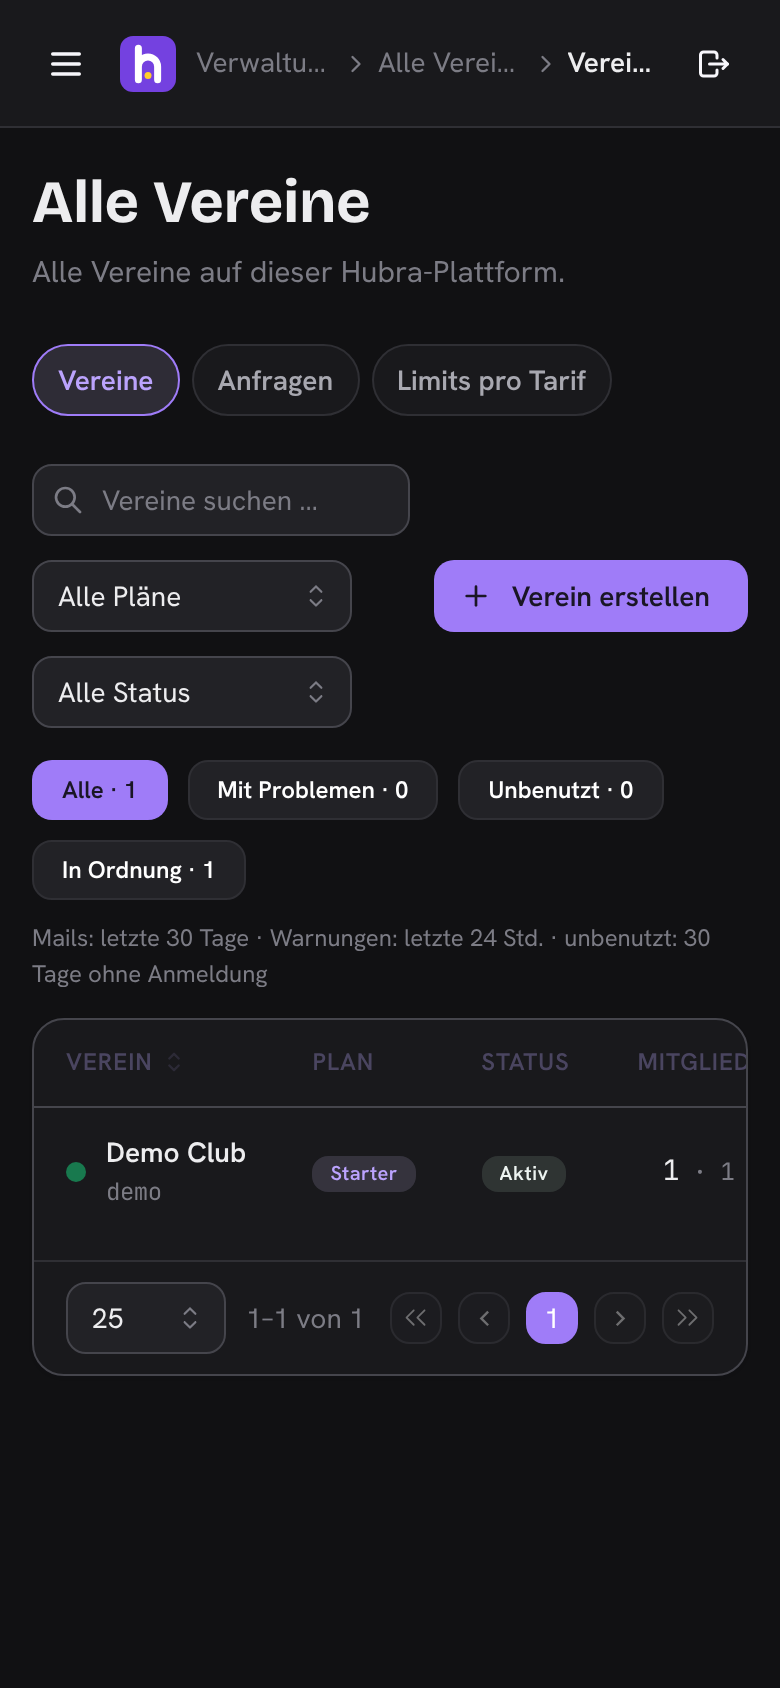
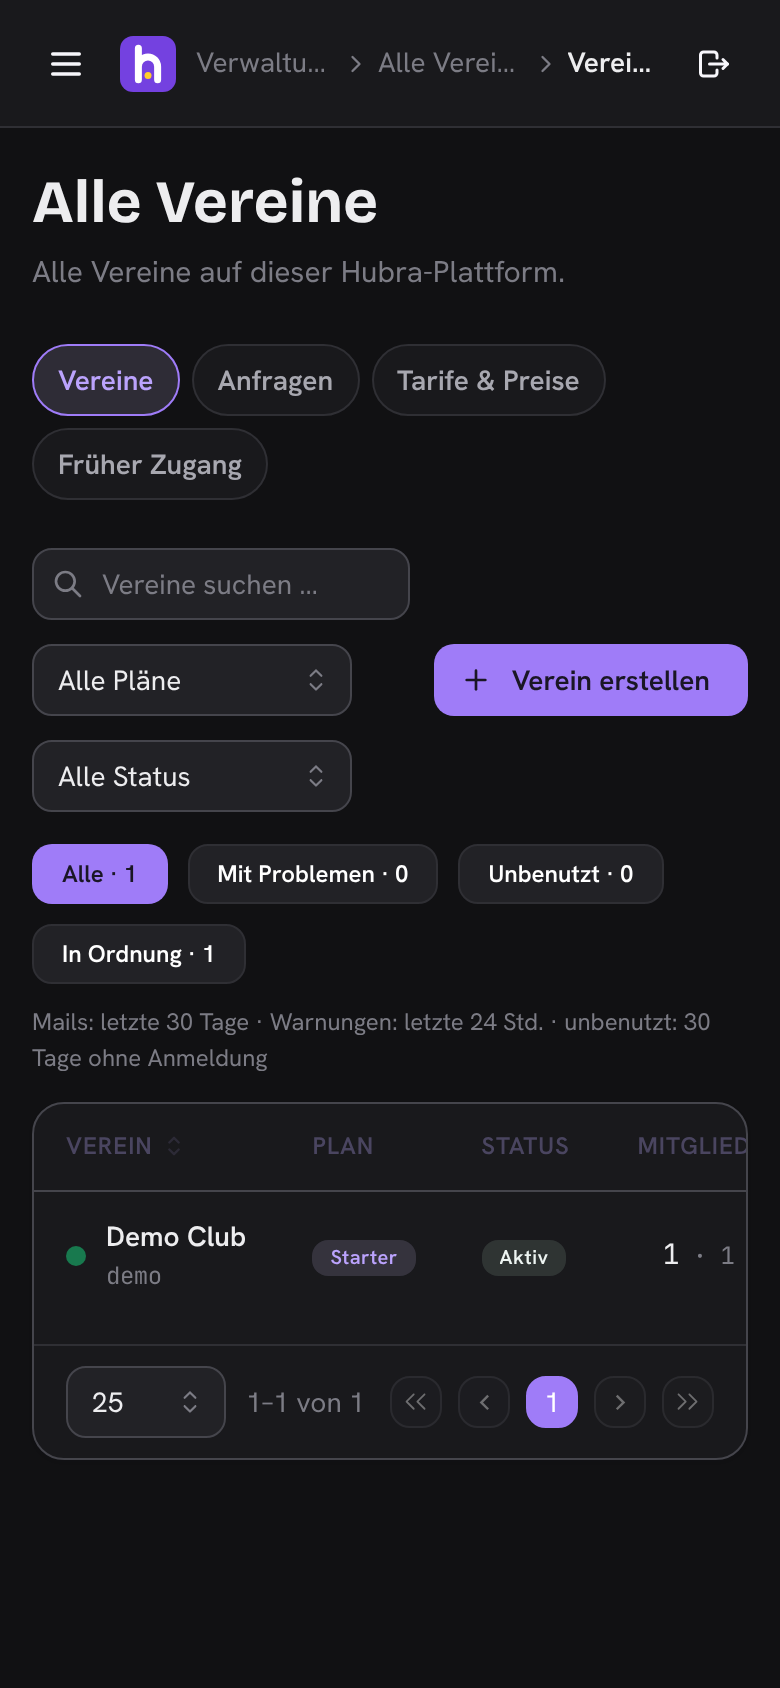
fix(ui): bring code merged today in line with the design spec
Info badges and warnings from the plans, billing, data-request and
marketplace screens use acc / orange, cards there take the theme radius,
and manage asks before removing a plugin repository or trusted key again
(the marketplace was reworked on main). Spec: fonts were self-hosted in
#163.

Claude-Session: https://claude.ai/code/session_01Mn3pymjwwBi5PKSVVUCChF

diff --git a/app/admin-frontend/src/screens/MarketplaceTab.tsx b/app/admin-frontend/src/screens/MarketplaceTab.tsx
@@ -72,6 +72,8 @@ import {
   type RepositoryPreview,
 } from '@/api/plugins'
 import { tr } from '@/lang'
+import { EmptyState } from '@/components/ui'
+import { useConfirm } from '@/components/useConfirm'
 import { PLUGIN_DE } from '@/moduleLabels'
 
 const TRUST: Record<string, { color: string; label: () => string }> = {
@@ -137,7 +139,7 @@ function PluginIcon({ p }: { p: MarketplacePlugin }) {
             ? IconMessages
             : IconPuzzle
   return (
-    <ThemeIcon size={52} radius="md" variant="light" color={p.installed ? 'violet' : 'gray'} aria-hidden>
+    <ThemeIcon size={52} radius="md" variant="light" color={p.installed ? 'acc' : 'gray'} aria-hidden>
       <Icon size={28} stroke={1.6} />
     </ThemeIcon>
   )
@@ -276,7 +278,7 @@ function PluginsView() {
         </Alert>
       ))}
 
-      <Paper withBorder radius="md" p="md">
+      <Paper withBorder p="md">
         <Stack gap="sm">
           <Group justify="space-between" wrap="wrap" gap="sm">
             <Group gap="lg">
@@ -358,10 +360,8 @@ function PluginsView() {
           {errorText(error)}
         </Alert>
       ) : plugins.length === 0 ? (
-        <Paper withBorder radius="md" p="xl">
-          <Text size="sm" c="dimmed" ta="center">
-            {tr('Keine passenden Plugins.', 'No plugins match.')}
-          </Text>
+        <Paper withBorder>
+          <EmptyState title={tr('Keine passenden Plugins.', 'No plugins match.')} />
         </Paper>
       ) : filter === 'all' ? (
         <>
@@ -553,7 +553,7 @@ function PluginCard({
               </Button>
             )}
             {p.update && (
-              <Button size="xs" color="gold" c="#1a1625" loading={busy} onClick={onInstall} leftSection={<IconArrowUp size={14} />}>
+              <Button size="xs" color="gold" loading={busy} onClick={onInstall} leftSection={<IconArrowUp size={14} />}>
                 {tr(`Auf ${p.repoVersion}`, `To ${p.repoVersion}`)}
               </Button>
             )}
@@ -936,8 +936,10 @@ function RepositoriesView() {
     }
   }
 
+  const [confirm, confirmDialog] = useConfirm()
   return (
     <Stack gap="md">
+      {confirmDialog}
       <Paper withBorder p="lg">
         <Text fw={600} size="sm" mb={4}>
           {tr('Quelle hinzufügen', 'Add a repository')}
@@ -1057,9 +1059,15 @@ function RepositoriesView() {
                       variant="subtle"
                       color="red"
                       onClick={() =>
-                        act(async () => {
-                          await deleteRepository(r.id)
-                          refresh()
+                        confirm({
+                          title: tr(`Quelle «${r.name}» entfernen?`, `Remove the repository "${r.name}"?`),
+                          body: tr('Installierte Plugins bleiben, bekommen aber keine Updates mehr aus dieser Quelle.', 'Installed plugins stay but get no more updates from it.'),
+                          confirmLabel: tr('Entfernen', 'Remove'),
+                          run: () =>
+                            act(async () => {
+                              await deleteRepository(r.id)
+                              refresh()
+                            }),
                         })
                       }
                     >
@@ -1098,8 +1106,10 @@ function KeysView() {
     }
   }
 
+  const [confirm, confirmDialog] = useConfirm()
   return (
     <Stack gap="md">
+      {confirmDialog}
       <Paper withBorder p="lg">
         <Text fw={600} size="sm" mb={4}>
           {tr('Einem Autor vertrauen', 'Trust an author')}
@@ -1175,7 +1185,14 @@ function KeysView() {
                       size="xs"
                       variant="subtle"
                       color="red"
-                      onClick={() => act(() => deleteTrustedKey(k.id!))}
+                      onClick={() =>
+                        confirm({
+                          title: tr(`Schlüssel «${k.name}» entfernen?`, `Remove the key "${k.name}"?`),
+                          body: tr('Plugins und Listen, die nur mit diesem Schlüssel signiert sind, gelten dann nicht mehr als vertrauenswürdig.', 'Plugins and indexes signed only with this key are no longer trusted.'),
+                          confirmLabel: tr('Entfernen', 'Remove'),
+                          run: () => act(() => deleteTrustedKey(k.id!)),
+                        })
+                      }
                     >
                       {tr('Entfernen', 'Remove')}
                     </Button>

diff --git a/app/frontend/src/screens/private/settings/BackupKeyTab.tsx b/app/frontend/src/screens/private/settings/BackupKeyTab.tsx
@@ -254,7 +254,7 @@ function KeyWizard({ onDone, onCancel, replacing }: { onDone: () => void; onCanc
   return (
     <Paper withBorder p="lg">
       <Group gap="xs" mb="md" wrap="nowrap">
-        <IconKey size={22} style={{ flexShrink: 0 }} />
+        <IconKey size={24} style={{ flexShrink: 0 }} />
         <Title order={3}>
           {replacing
             ? t('backupKey.wizard.replaceTitle', 'Neuen Backup-Schlüssel einrichten')
@@ -276,7 +276,7 @@ function KeyWizard({ onDone, onCancel, replacing }: { onDone: () => void; onCanc
           <Stack gap="md" mt="md">
             <WhatItIs />
             {replacing && (
-              <Alert color="yellow" icon={<IconAlertTriangle size={18} />}>
+              <Alert color="orange" icon={<IconAlertTriangle size={18} />}>
                 {t(
                   'backupKey.wizard.replaceHint',
                   'Backups, die schon gemacht wurden, öffnen weiterhin mit dem bisherigen Schlüssel. Bewahrt ihn deshalb auf, bis diese Backups abgelaufen sind.',
@@ -695,7 +695,7 @@ function KeyStatus({
       <Paper withBorder p="lg">
         <Group justify="space-between" mb="md" wrap="wrap" gap="xs">
           <Group gap="xs">
-            <IconShieldCheck size={22} color="var(--mantine-color-green-6)" />
+            <IconShieldCheck size={24} color="var(--mantine-color-green-6)" />
             <Title order={3}>{t('backupKey.status.title', 'Eigener Backup-Schlüssel')}</Title>
           </Group>
           <Badge color="green" variant="light">
@@ -720,7 +720,7 @@ function KeyStatus({
             </Text>
           )}
           {!state.backups_use_key ? (
-            <Alert color="yellow" icon={<IconAlertTriangle size={18} />}>
+            <Alert color="orange" icon={<IconAlertTriangle size={18} />}>
               {t(
                 'backupKey.status.notYet',
                 'Dieser Server verschlüsselt Backups noch nicht mit öffentlichen Schlüsseln. Euer Schlüssel ist gespeichert und gilt, sobald der Betreiber das umstellt.',

diff --git a/app/admin-frontend/src/screens/platform/Plans.tsx b/app/admin-frontend/src/screens/platform/Plans.tsx
@@ -102,7 +102,7 @@ export function PlatformPlans() {
 
   return (
     <Stack gap={20} maw={960}>
-      <Paper withBorder shadow="sm" radius="lg" p="lg">
+      <Paper withBorder p="lg">
         <Group justify="space-between" mb={4}>
           <Title order={3}>{tr('Tarife', 'Plans')}</Title>
           <Button size="xs" leftSection={<IconPlus size={16} />} onClick={() => setEditing('new')}>
@@ -120,7 +120,6 @@ export function PlatformPlans() {
             <Paper
               key={p.key}
               withBorder
-              radius="md"
               p="md"
               style={p.hidden ? { opacity: 0.6 } : undefined}
             >
@@ -171,7 +170,7 @@ export function PlatformPlans() {
                   </Badge>
                 )}
                 {p.highlighted && (
-                  <Badge size="sm" variant="light" color="violet">
+                  <Badge size="sm" variant="light" color="acc">
                     {tr('Hervorgehoben', 'Highlighted')}
                   </Badge>
                 )}
@@ -220,7 +219,7 @@ export function PlatformPlans() {
         </SimpleGrid>
       </Paper>
 
-      <Paper withBorder shadow="sm" radius="lg" p="lg">
+      <Paper withBorder p="lg">
         <Title order={3} mb={4}>
           {tr('Zusatzmodule', 'Add-ons')}
         </Title>
@@ -290,7 +289,7 @@ export function PlatformPlans() {
         </Table.ScrollContainer>
       </Paper>
 
-      <Paper withBorder shadow="sm" radius="lg" p="lg">
+      <Paper withBorder p="lg">
         <Title order={3} mb={4}>
           {tr('Öffentliche API', 'Public API')}
         </Title>

diff --git a/app/admin-frontend/src/screens/DataRequests.tsx b/app/admin-frontend/src/screens/DataRequests.tsx
@@ -64,7 +64,7 @@ function DeadlineBadge({ r }: { r: DataRequest }) {
     )
   const days = r.days_left ?? 0
   return (
-    <Badge variant="light" color={r.overdue ? 'red' : r.due_soon ? 'orange' : 'blue'}>
+    <Badge variant="light" color={r.overdue ? 'red' : r.due_soon ? 'orange' : 'acc'}>
       {r.overdue
         ? tr(`${-days} Tage überfällig`, `${-days} days overdue`)
         : days === 0
@@ -200,11 +200,11 @@ function RequestCard({
   }
 
   return (
-    <Paper withBorder p="md" radius="md">
+    <Paper withBorder p="md">
       <Group justify="space-between" align="flex-start" gap={8} mb={6}>
         <Stack gap={2}>
           <Group gap={8}>
-            <Badge variant="outline" color={r.kind === 'deletion' ? 'red' : 'violet'}>
+            <Badge variant="outline" color={r.kind === 'deletion' ? 'red' : 'acc'}>
               {KIND[r.kind]()}
             </Badge>
             <DeadlineBadge r={r} />

diff --git a/app/admin-frontend/src/screens/TenantBilling.tsx b/app/admin-frontend/src/screens/TenantBilling.tsx
@@ -38,7 +38,7 @@ import {
 
 const STATUS: Record<BillingStatus, { de: string; en: string; color: string }> = {
   none: { de: 'Nicht verrechnet', en: 'Not billed', color: 'gray' },
-  trialing: { de: 'Testphase', en: 'Trial', color: 'blue' },
+  trialing: { de: 'Testphase', en: 'Trial', color: 'acc' },
   active: { de: 'Aktiv', en: 'Active', color: 'green' },
   past_due: { de: 'Zahlung überfällig', en: 'Past due', color: 'orange' },
   unpaid: { de: 'Unbezahlt', en: 'Unpaid', color: 'red' },
@@ -381,7 +381,7 @@ function BillingModal({
           />
         </SimpleGrid>
 
-        <Paper withBorder p="md" radius="md">
+        <Paper withBorder p="md">
           <Switch
             label={tr('Gesponsert', 'Sponsored')}
             description={tr(

diff --git a/app/admin-frontend/src/screens/platform/EarlyAccess.tsx b/app/admin-frontend/src/screens/platform/EarlyAccess.tsx
@@ -25,7 +25,7 @@ function FlagRow({ flag, total, onSaved }: { flag: FeatureFlag; total: number; o
   }
 
   return (
-    <Paper withBorder radius="lg" p="md">
+    <Paper withBorder p="md">
       <Group justify="space-between" align="flex-start" gap="md" wrap="wrap">
         <Stack gap={2} style={{ flex: '1 1 280px' }}>
           <Group gap={8}>
@@ -84,7 +84,7 @@ export function EarlyAccess() {
         )}
       </Text>
 
-      <Paper withBorder radius="lg" p="md">
+      <Paper withBorder p="md">
         <Group justify="space-between" mb={8}>
           <Title order={4}>{tr('Testgruppe', 'Early group')}</Title>
           <Badge variant="light">{data?.early_access.length ?? 0}</Badge>

diff --git a/app/frontend/src/screens/private/settings/ModulesTab.tsx b/app/frontend/src/screens/private/settings/ModulesTab.tsx
@@ -139,7 +139,7 @@ export function ModulesTab() {
           )}
         </Text>
         {plugins.length === 0 ? (
-          <Paper withBorder radius="md" p="lg">
+          <Paper withBorder p="lg">
             <Group gap="md" wrap="nowrap">
               <ThemeIcon size={44} radius="md" variant="light" color="gray">
                 <IconPuzzle size={24} />
@@ -235,7 +235,6 @@ function ModuleCard({
   return (
     <Paper
       withBorder
-      radius="md"
       p="lg"
       data-module={m.code}
       style={{

diff --git a/app/admin-frontend/vite.config.ts b/app/admin-frontend/vite.config.ts
@@ -15,7 +15,7 @@ export default defineConfig({
     },
   },
   server: {
-    // The shared fonts in packages/ui/fonts are served from outside the app.
+    // packages/ui (shared CSS and fonts) lives outside the app root.
     fs: { allow: [searchForWorkspaceRoot(process.cwd()), resolve(__dirname, '../../packages')] },
     host: '0.0.0.0',
     port: 5174,

diff --git a/app/frontend/vite.config.ts b/app/frontend/vite.config.ts
@@ -16,7 +16,7 @@ export default defineConfig({
     },
   },
   server: {
-    // The shared fonts in packages/ui/fonts are served from outside the app.
+    // packages/ui (shared CSS and fonts) lives outside the app root.
     fs: { allow: [searchForWorkspaceRoot(process.cwd()), resolve(__dirname, '../../packages')] },
     host: '0.0.0.0',
     port: 5173,

diff --git a/app/sso-frontend/vite.config.ts b/app/sso-frontend/vite.config.ts
@@ -15,7 +15,7 @@ export default defineConfig({
     },
   },
   server: {
-    // The shared fonts in packages/ui/fonts are served from outside the app.
+    // packages/ui (shared CSS and fonts) lives outside the app root.
     fs: { allow: [searchForWorkspaceRoot(process.cwd()), resolve(__dirname, '../../packages')] },
     host: '0.0.0.0',
     port: 5175,

diff --git a/docs/design-spec.md b/docs/design-spec.md
@@ -17,7 +17,7 @@ Where things live:
 | CSS tokens (`--hb-*`), page base, brand marks, chips, tabs | `packages/ui/src/ui.css` |
 | Shared page blocks: `PageHead`, `StatTile`, `StatGrid`, `Tabs`, `Pagination` | `packages/ui/src/layout.tsx` |
 | Dialogs, side panels, cards, empty / error / loading states | `packages/ui/src/feedback.tsx` (each app wraps them with its texts) |
-| Fonts (self-hosted woff2, SIL OFL) | `packages/ui/fonts/` |
+| Fonts (self-hosted woff2, SIL OFL) | `packages/ui/src/fonts/` |
 | Text colour on any fill (WCAG) | `packages/ui/src/contrast.ts` (`textOn`, `readableOn`) |
 | Light / dark / auto | `packages/ui/src/colorScheme.ts`, `ThemeSwitch.tsx`, `theme.js` |
 | Logo files and brand rules | `brand/README.md` |
@@ -394,7 +394,7 @@ this page:
 - Body 17 px / 1.6 (marketing size), headings Bricolage 800 with tight
   tracking; buttons radius 10 px, cards 16 px.
 - Fonts are self-hosted (no Google request), like the apps
-  (`packages/ui/fonts`).
+  (`packages/ui/src/fonts`).
 
 ---
 
@@ -435,7 +435,7 @@ with its fix.
 | 13 | Shared components only in the club app | `DataTable`, `EmptyState`, `ErrorBanner`, `Avatar`, `Card`, `Field` exist only in the club app. Manage builds tables with raw `Table` (23 files) and has no empty state. | Move them into `packages/ui` and use them in manage. Biggest item; do it screen by screen. | Done for EmptyState, ErrorBanner, Card, dialogs; manage tables still use `Table` (DataTable needs the club app's i18n and paging hooks first) |
 | 14 | Toasts | Club app, manage and most of sign-in use `notify()`; sign-in also calls `notifications.show` directly (3 places). | Use `notify()`; put one `notify` in `packages/ui`. | Done |
 | 15 | Reduced motion | Only the club app turns motion off for `prefers-reduced-motion`. | Move the rule into `ui.css`. | Done |
-| 16 | Fonts | The apps load Bricolage, Hanken and JetBrains Mono from Google Fonts; the website self-hosts Bricolage and Hanken (no JetBrains Mono file, so code falls back). Loading from Google sends visitors' IPs to Google, which is a privacy issue under GDPR / Swiss FADP. | Self-host the three fonts in `packages/ui` (same woff2 files as the website) and add JetBrains Mono to the website. | Done |
+| 16 | Fonts | The apps load Bricolage, Hanken and JetBrains Mono from Google Fonts; the website self-hosts Bricolage and Hanken (no JetBrains Mono file, so code falls back). Loading from Google sends visitors' IPs to Google, which is a privacy issue under GDPR / Swiss FADP. | Self-host the three fonts in `packages/ui` (same woff2 files as the website) and add JetBrains Mono to the website. | Done in #163 (self-hosted in `packages/ui/src/fonts`); JetBrains Mono added to the website in hubra.club |
 | 17 | Icon sizes | 12, 14, 16, 18, 20, 24, 26, 28 are all in use; a few icons set `stroke` 1.5 / 1.6 / 1.75. | Sizes from §2 (16/18/20/24), default stroke. | Done |
 | 18 | Website tokens | Website line colour is `#ebe8f2` (apps `#e6e3ef`). | Use `#e6e3ef`. | Done in hubra.club |
 | 19 | Spelling | Two "ß" in manage `CreateTenantModal.tsx` and sign-in `StartClub.tsx`. | Replace with "ss". | Not a bug: both are the slug transliteration (`.replace(/ß/g, 'ss')`), not UI text |
